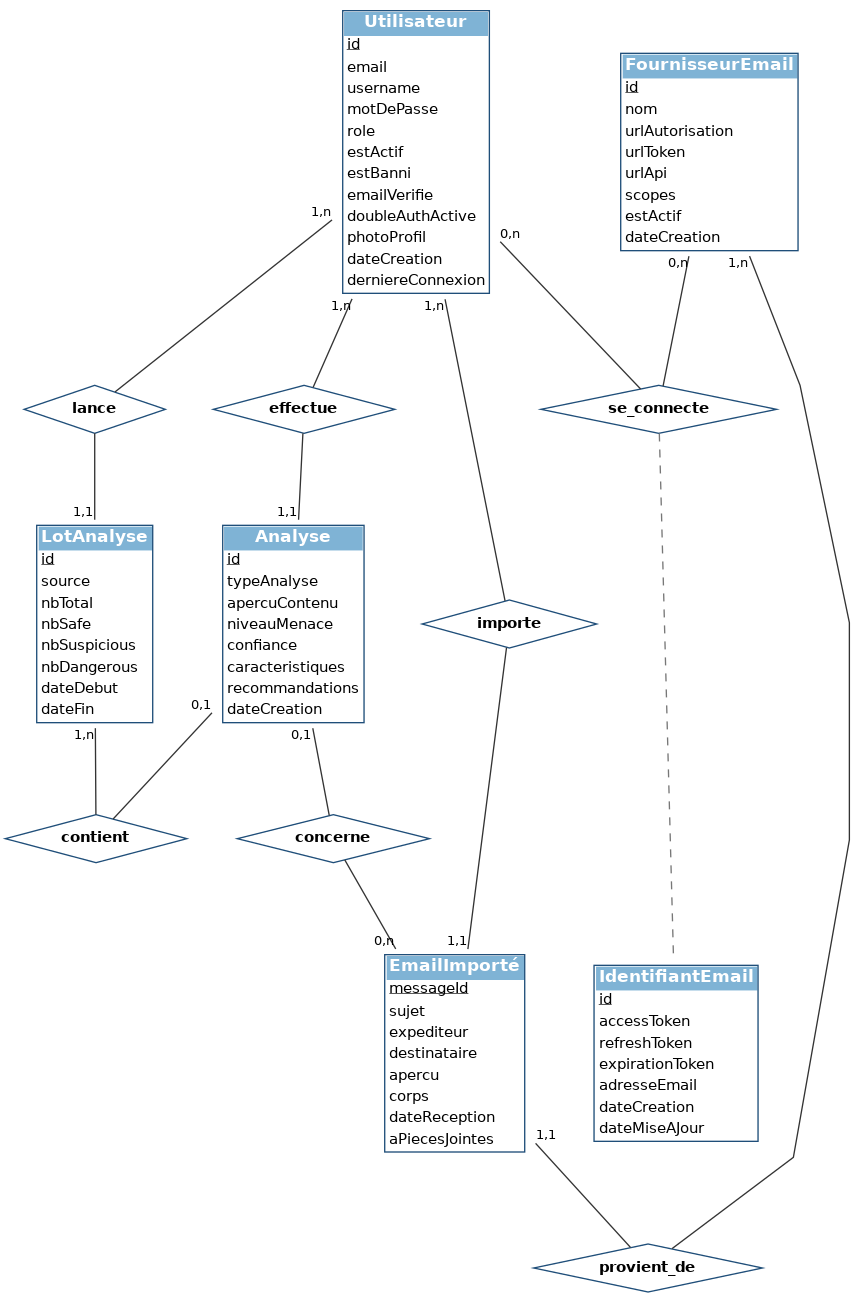
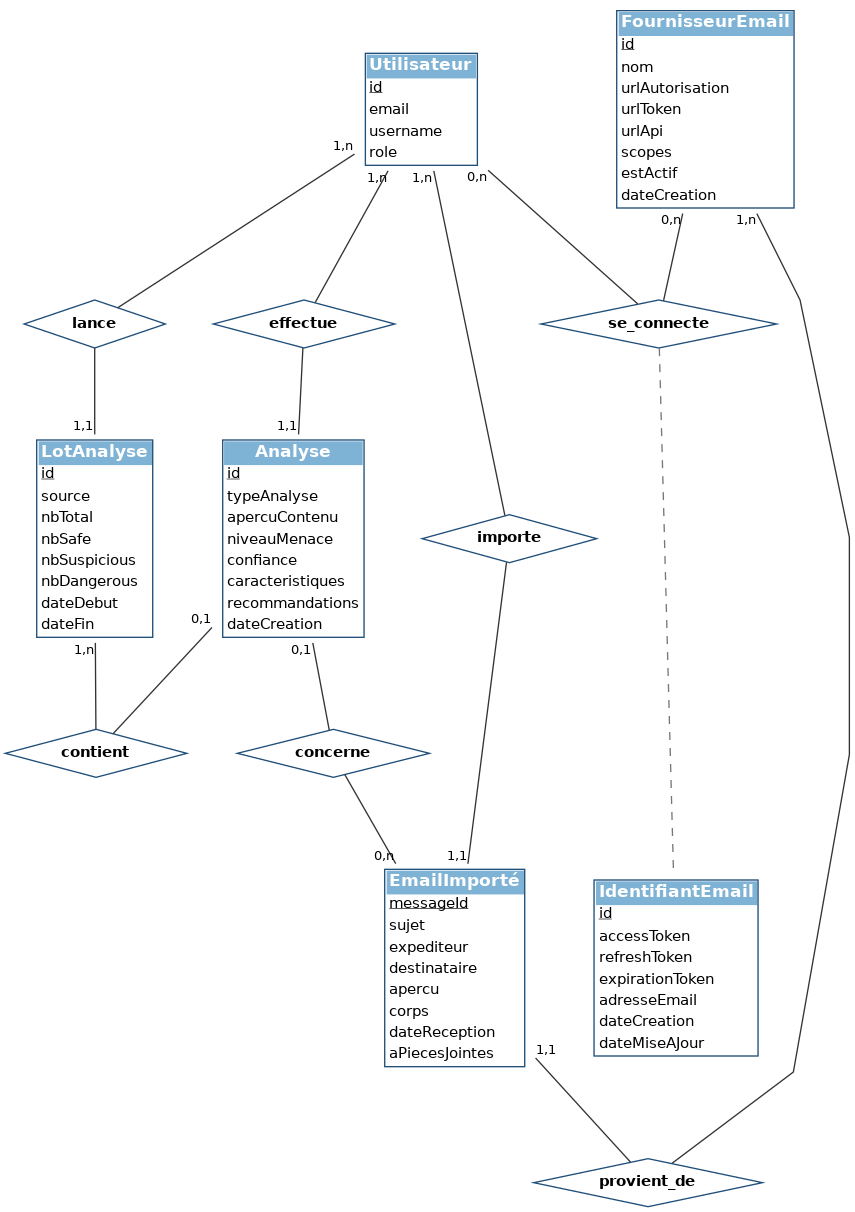
docs(sprint3): trim Utilisateur \303\240 4 attributs (p\303\251rim\303\250tre sprint 3 strict)
Suite au retour : suppression des attributs Utilisateur qui ne sont pas
utilis\303\251s par les cas d'usage du sprint 3 (Gmail/Outlook).

Avant : 12 attributs (id, email, username, motDePasse, role, estActif,
estBanni, emailVerifie, doubleAuthActive, photoProfil, dateCreation,
derniereConnexion)

Apr\303\250s : 4 attributs strictement n\303\251cessaires
- id : identifiant
- email : adresse de l'utilisateur (OAuth, identification)
- username : nom d'affichage
- role : pour les acteurs des Tables 4.3 / 4.4 du rapport
  (Utilisateur, Administrateur, Super-administrateur)

Les attributs auth/2FA/profil/etc. appartiennent au MCD du sprint 1
et n'ont pas leur place dans le MCD du sprint 3.

diff --git a/préparation de soutenance technique/scripts/generate_mcd_sprint3.py b/préparation de soutenance technique/scripts/generate_mcd_sprint3.py
@@ -86,15 +86,7 @@ def build_mcd_sprint3() -> Digraph:
                 "id",
                 "email",
                 "username",
-                "motDePasse",
                 "role",
-                "estActif",
-                "estBanni",
-                "emailVerifie",
-                "doubleAuthActive",
-                "photoProfil",
-                "dateCreation",
-                "derniereConnexion",
             ],
         ),
         shape="plaintext",

diff --git a/préparation de soutenance technique/MCD_SPRINT3.md b/préparation de soutenance technique/MCD_SPRINT3.md
@@ -46,20 +46,16 @@ Le MCD ne représente que les entités **directement impliquées dans les cas d'
 ## Description des entités (6)
 
 ### `Utilisateur`
+> Représentation **focalisée sur le sprint 3** : seuls les attributs utilisés
+> par les cas d'usage de ce sprint sont conservés (les autres — auth, 2FA,
+> profil, etc. — appartiennent au MCD du sprint 1).
+
 | Attribut | Rôle |
 |---|---|
 | <u>id</u> | Identifiant |
-| email | Adresse de connexion |
+| email | Adresse email du compte (référence pour OAuth, notification d'utilisateur) |
 | username | Pseudo affiché |
-| motDePasse | Mot de passe |
-| role | Rôle de l'acteur (utilisateur, administrateur, super-administrateur) |
-| estActif | Compte actif |
-| estBanni | Compte banni |
-| emailVerifie | Email validé |
-| doubleAuthActive | 2FA activée |
-| photoProfil | Avatar |
-| dateCreation | Date d'inscription |
-| derniereConnexion | Dernière connexion |
+| role | Rôle de l'acteur (utilisateur, administrateur, super-administrateur) — cf. Table 4.3 et 4.4 du rapport |
 
 ### `FournisseurEmail` *(nouveau — sprint 3)*
 | Attribut | Rôle |
@@ -192,15 +188,7 @@ erDiagram
         id PK
         email
         username
-        motDePasse
         role
-        estActif
-        estBanni
-        emailVerifie
-        doubleAuthActive
-        photoProfil
-        dateCreation
-        derniereConnexion
     }
     FournisseurEmail {
         id PK
